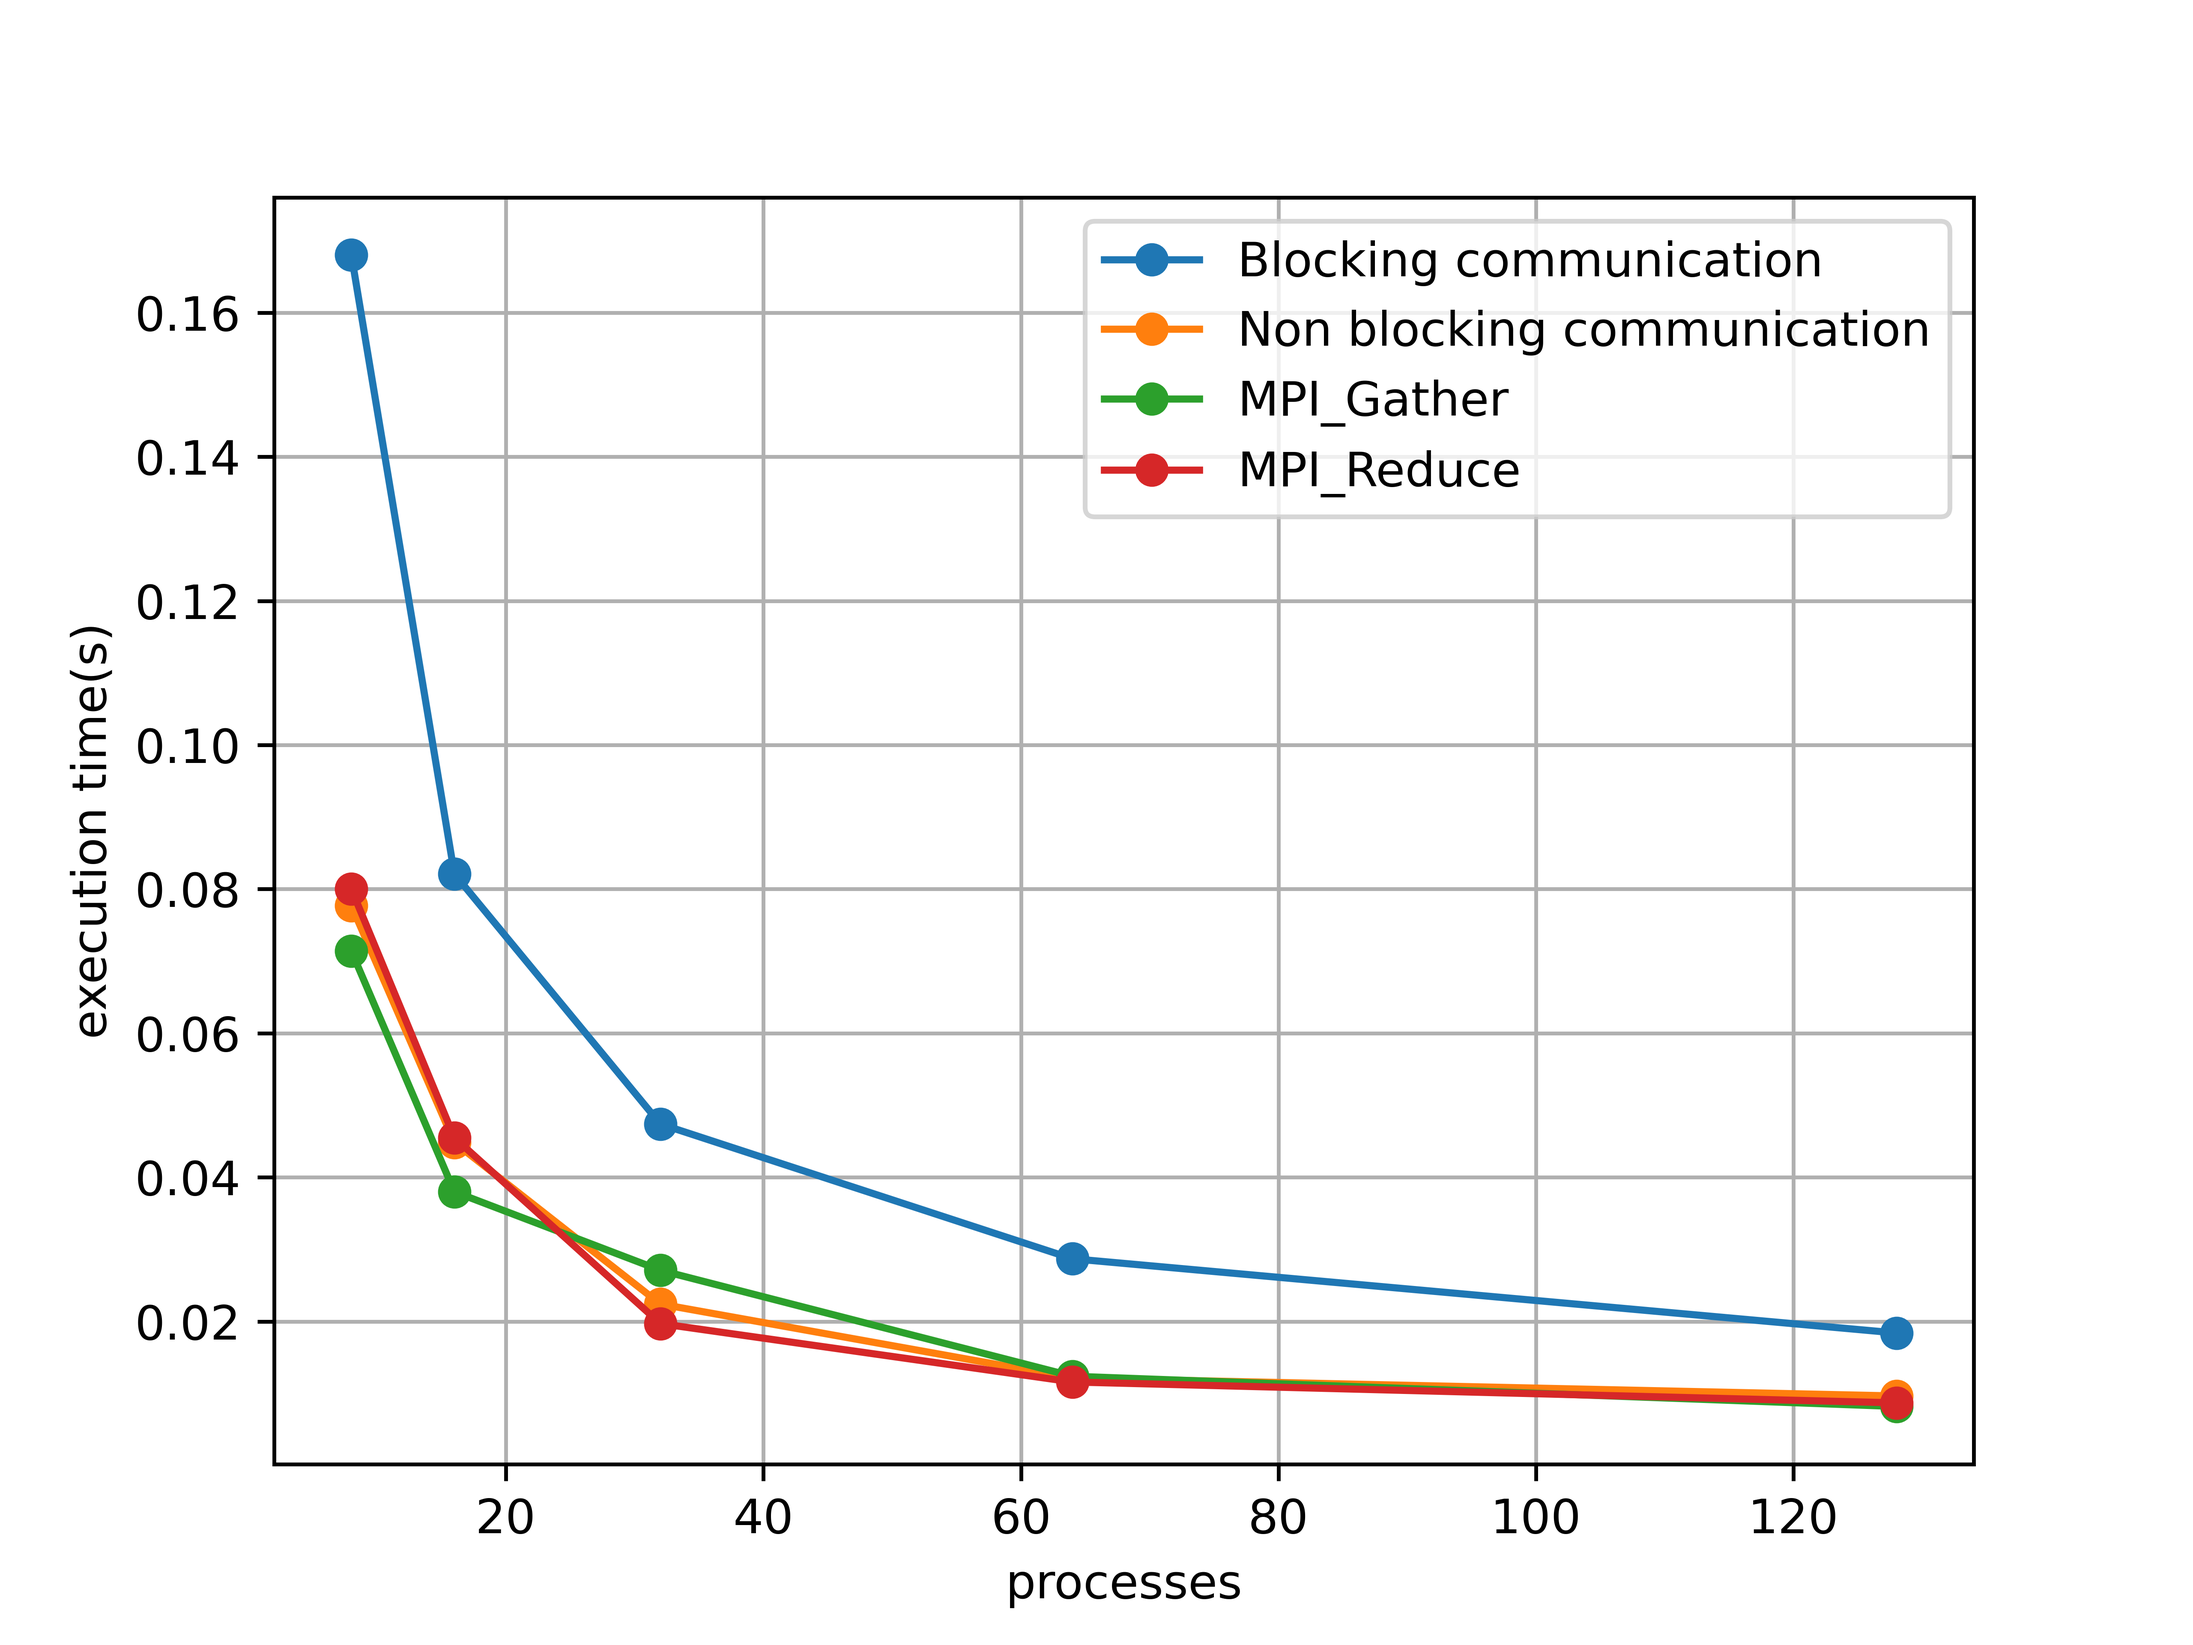
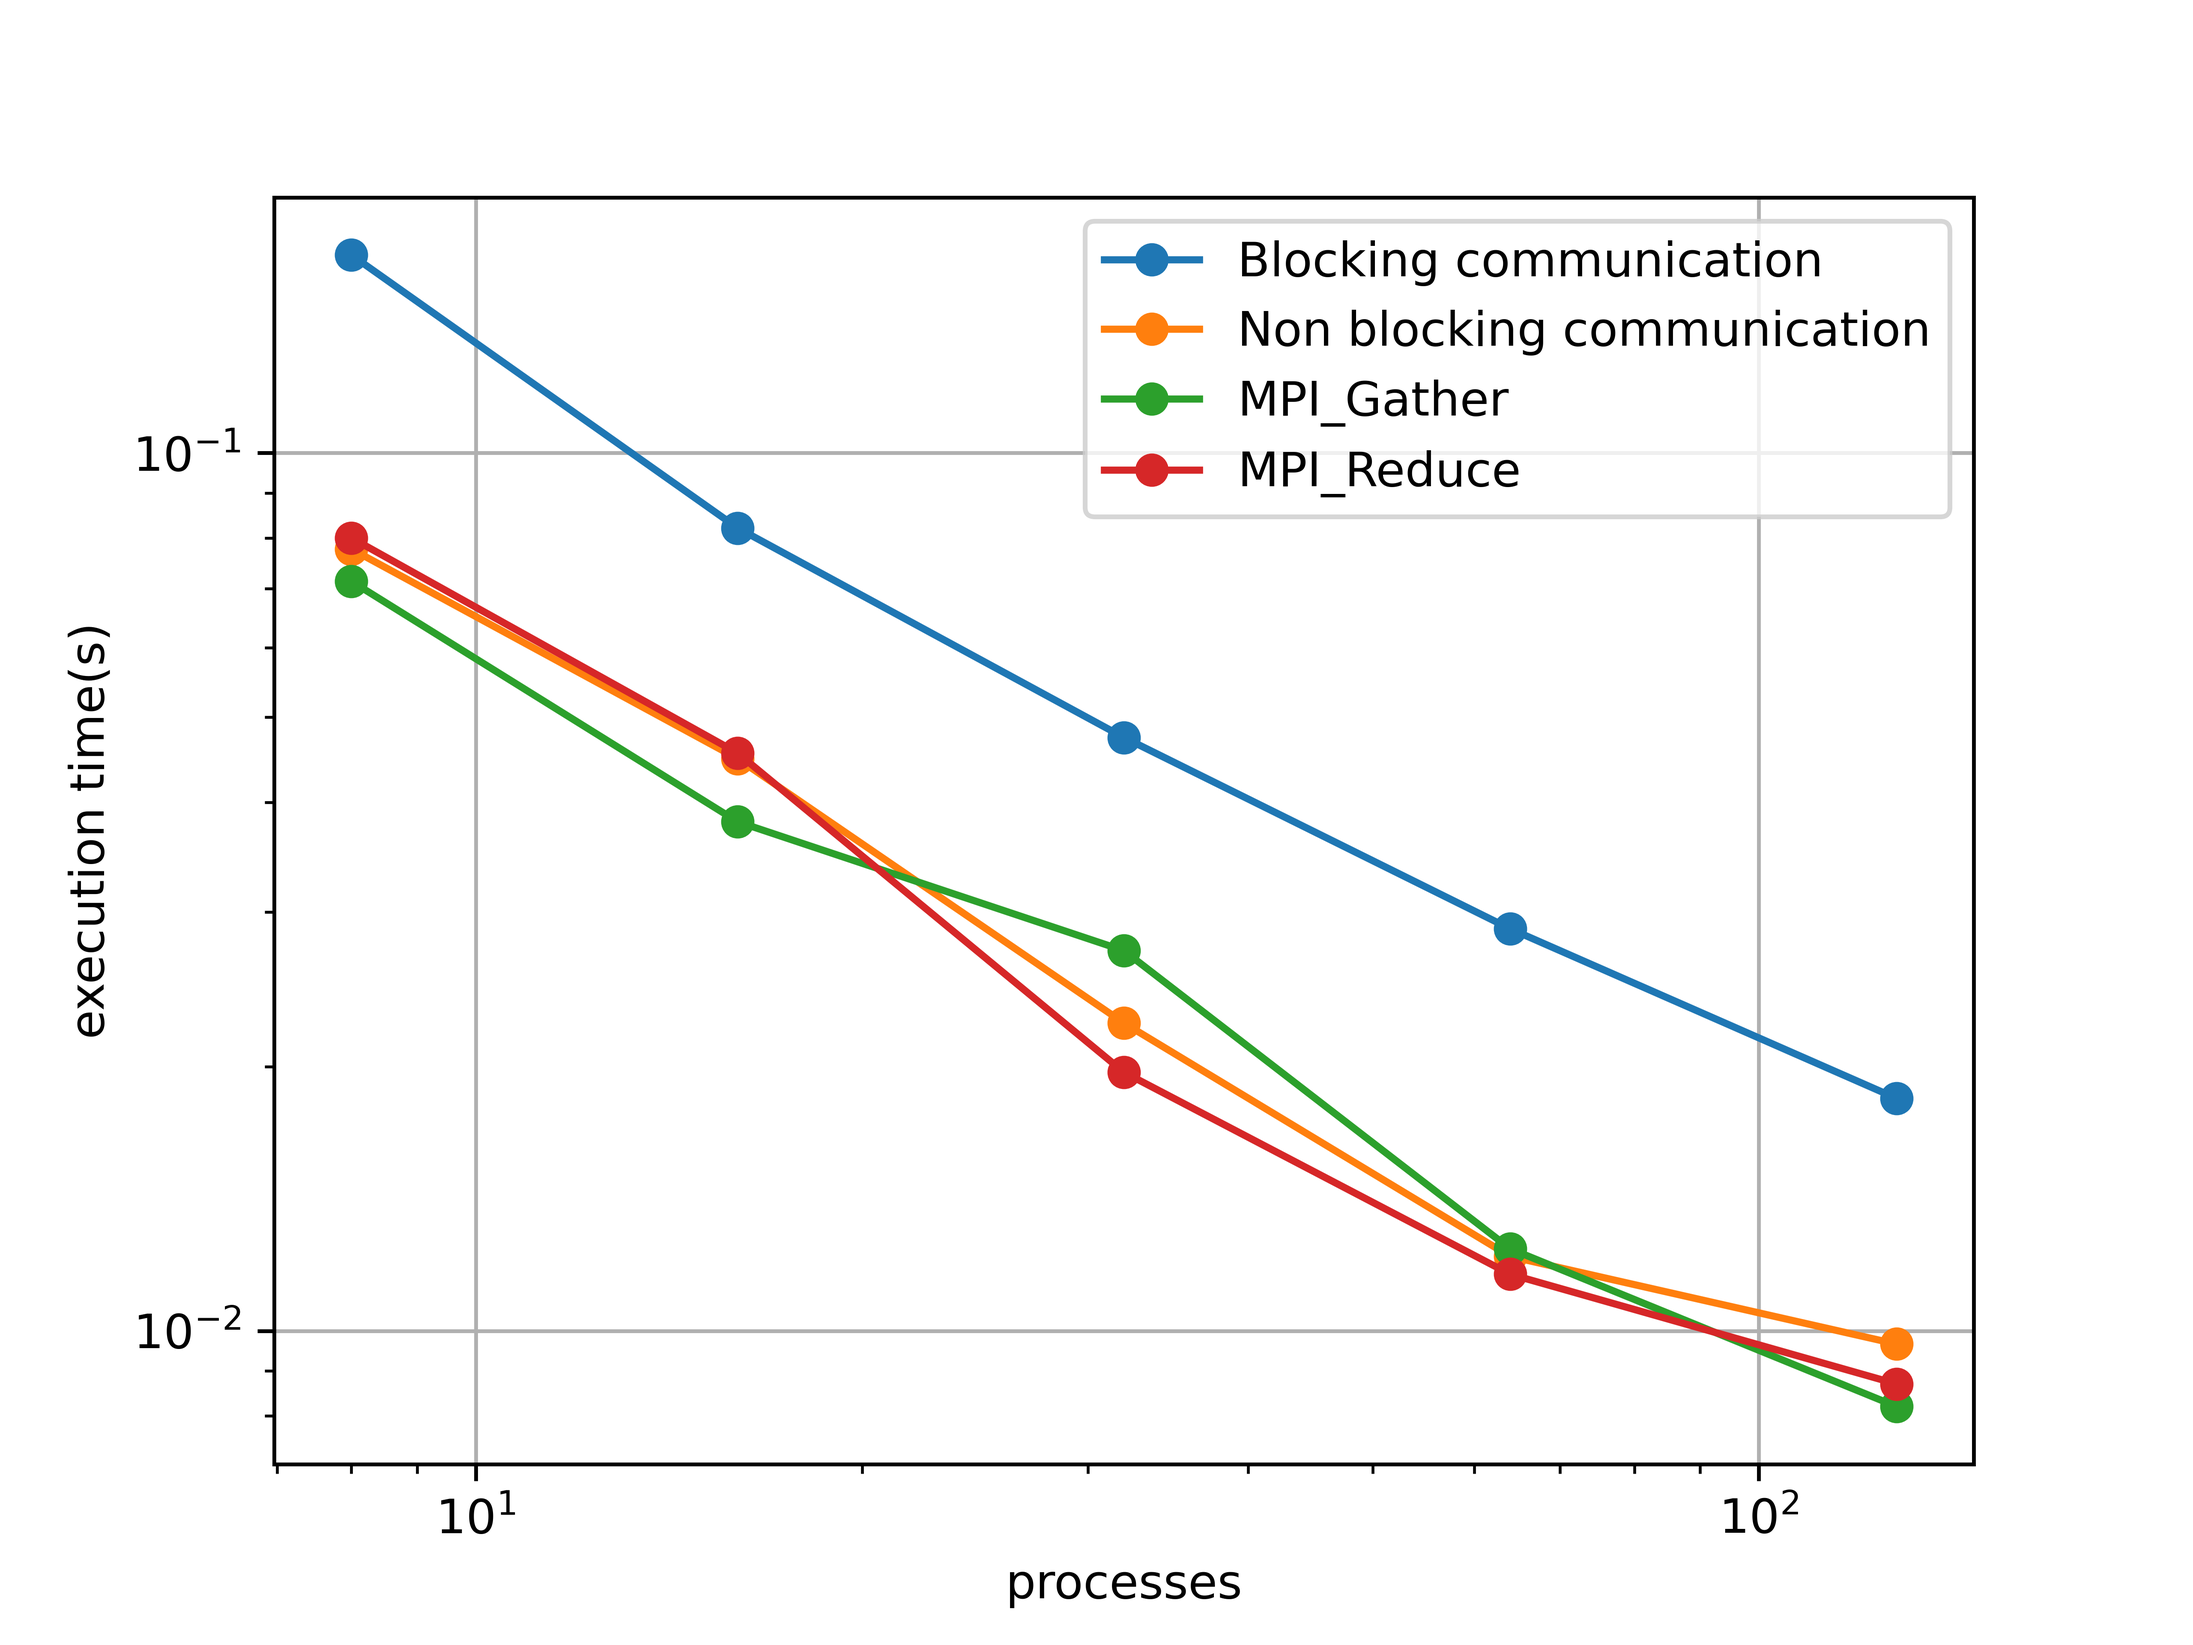
Changing cumul plot to logarithmic

diff --git a/report/main.tex b/report/main.tex
@@ -356,7 +356,7 @@ The non-blocking approach performs better since the manager process (rank 0) doe
 \begin{figure}[H]
   \centering
   \includegraphics[width=0.8\textwidth]{all.png}
-  \caption{PI calculation with all approaches.}
+  \caption{PI calculation with all approaches. For sake of better illustration, both axis are logarithmically scaled.}
   \label{fig:blocking}
 \end{figure}
 

diff --git a/report/plot.py b/report/plot.py
@@ -38,7 +38,8 @@ plt.savefig("graph-pi-mpi-reduce.png", dpi=800)
 plt.cla()
 
 
-
+plt.yscale("log")
+plt.xscale("log")
 plt.grid(True)
 plt.xlabel("processes")
 plt.ylabel("execution time(s)")
